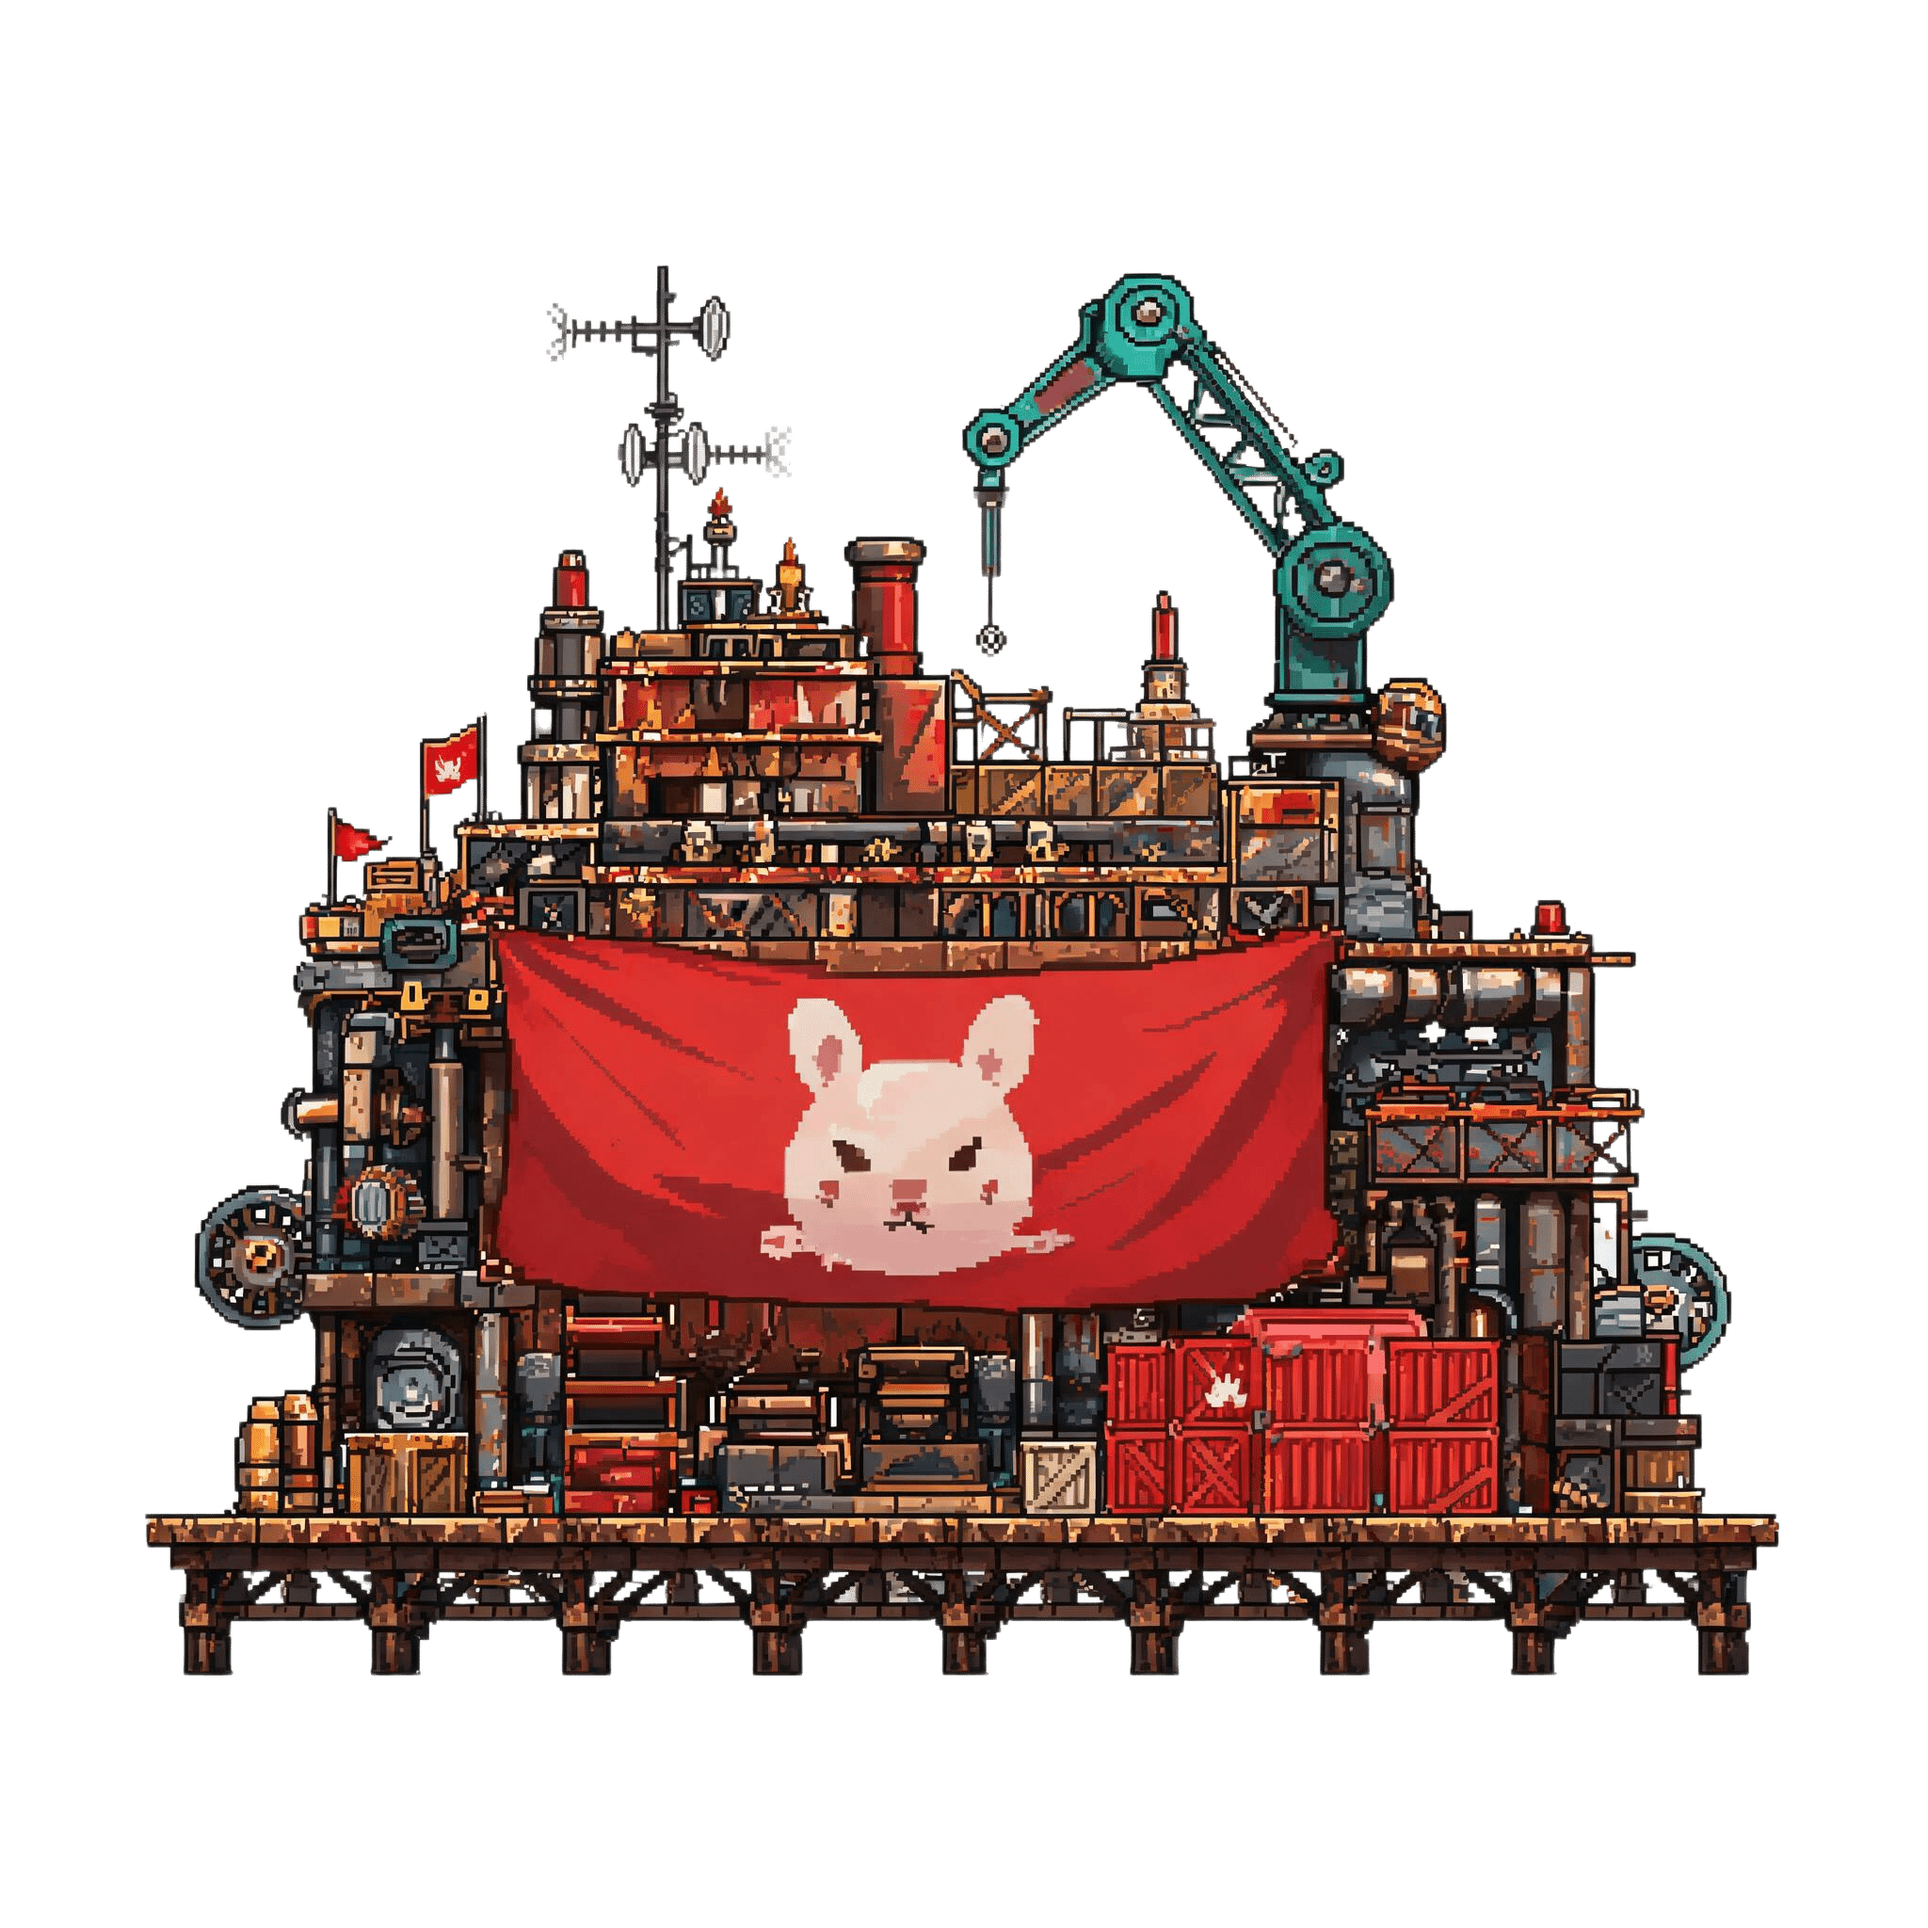
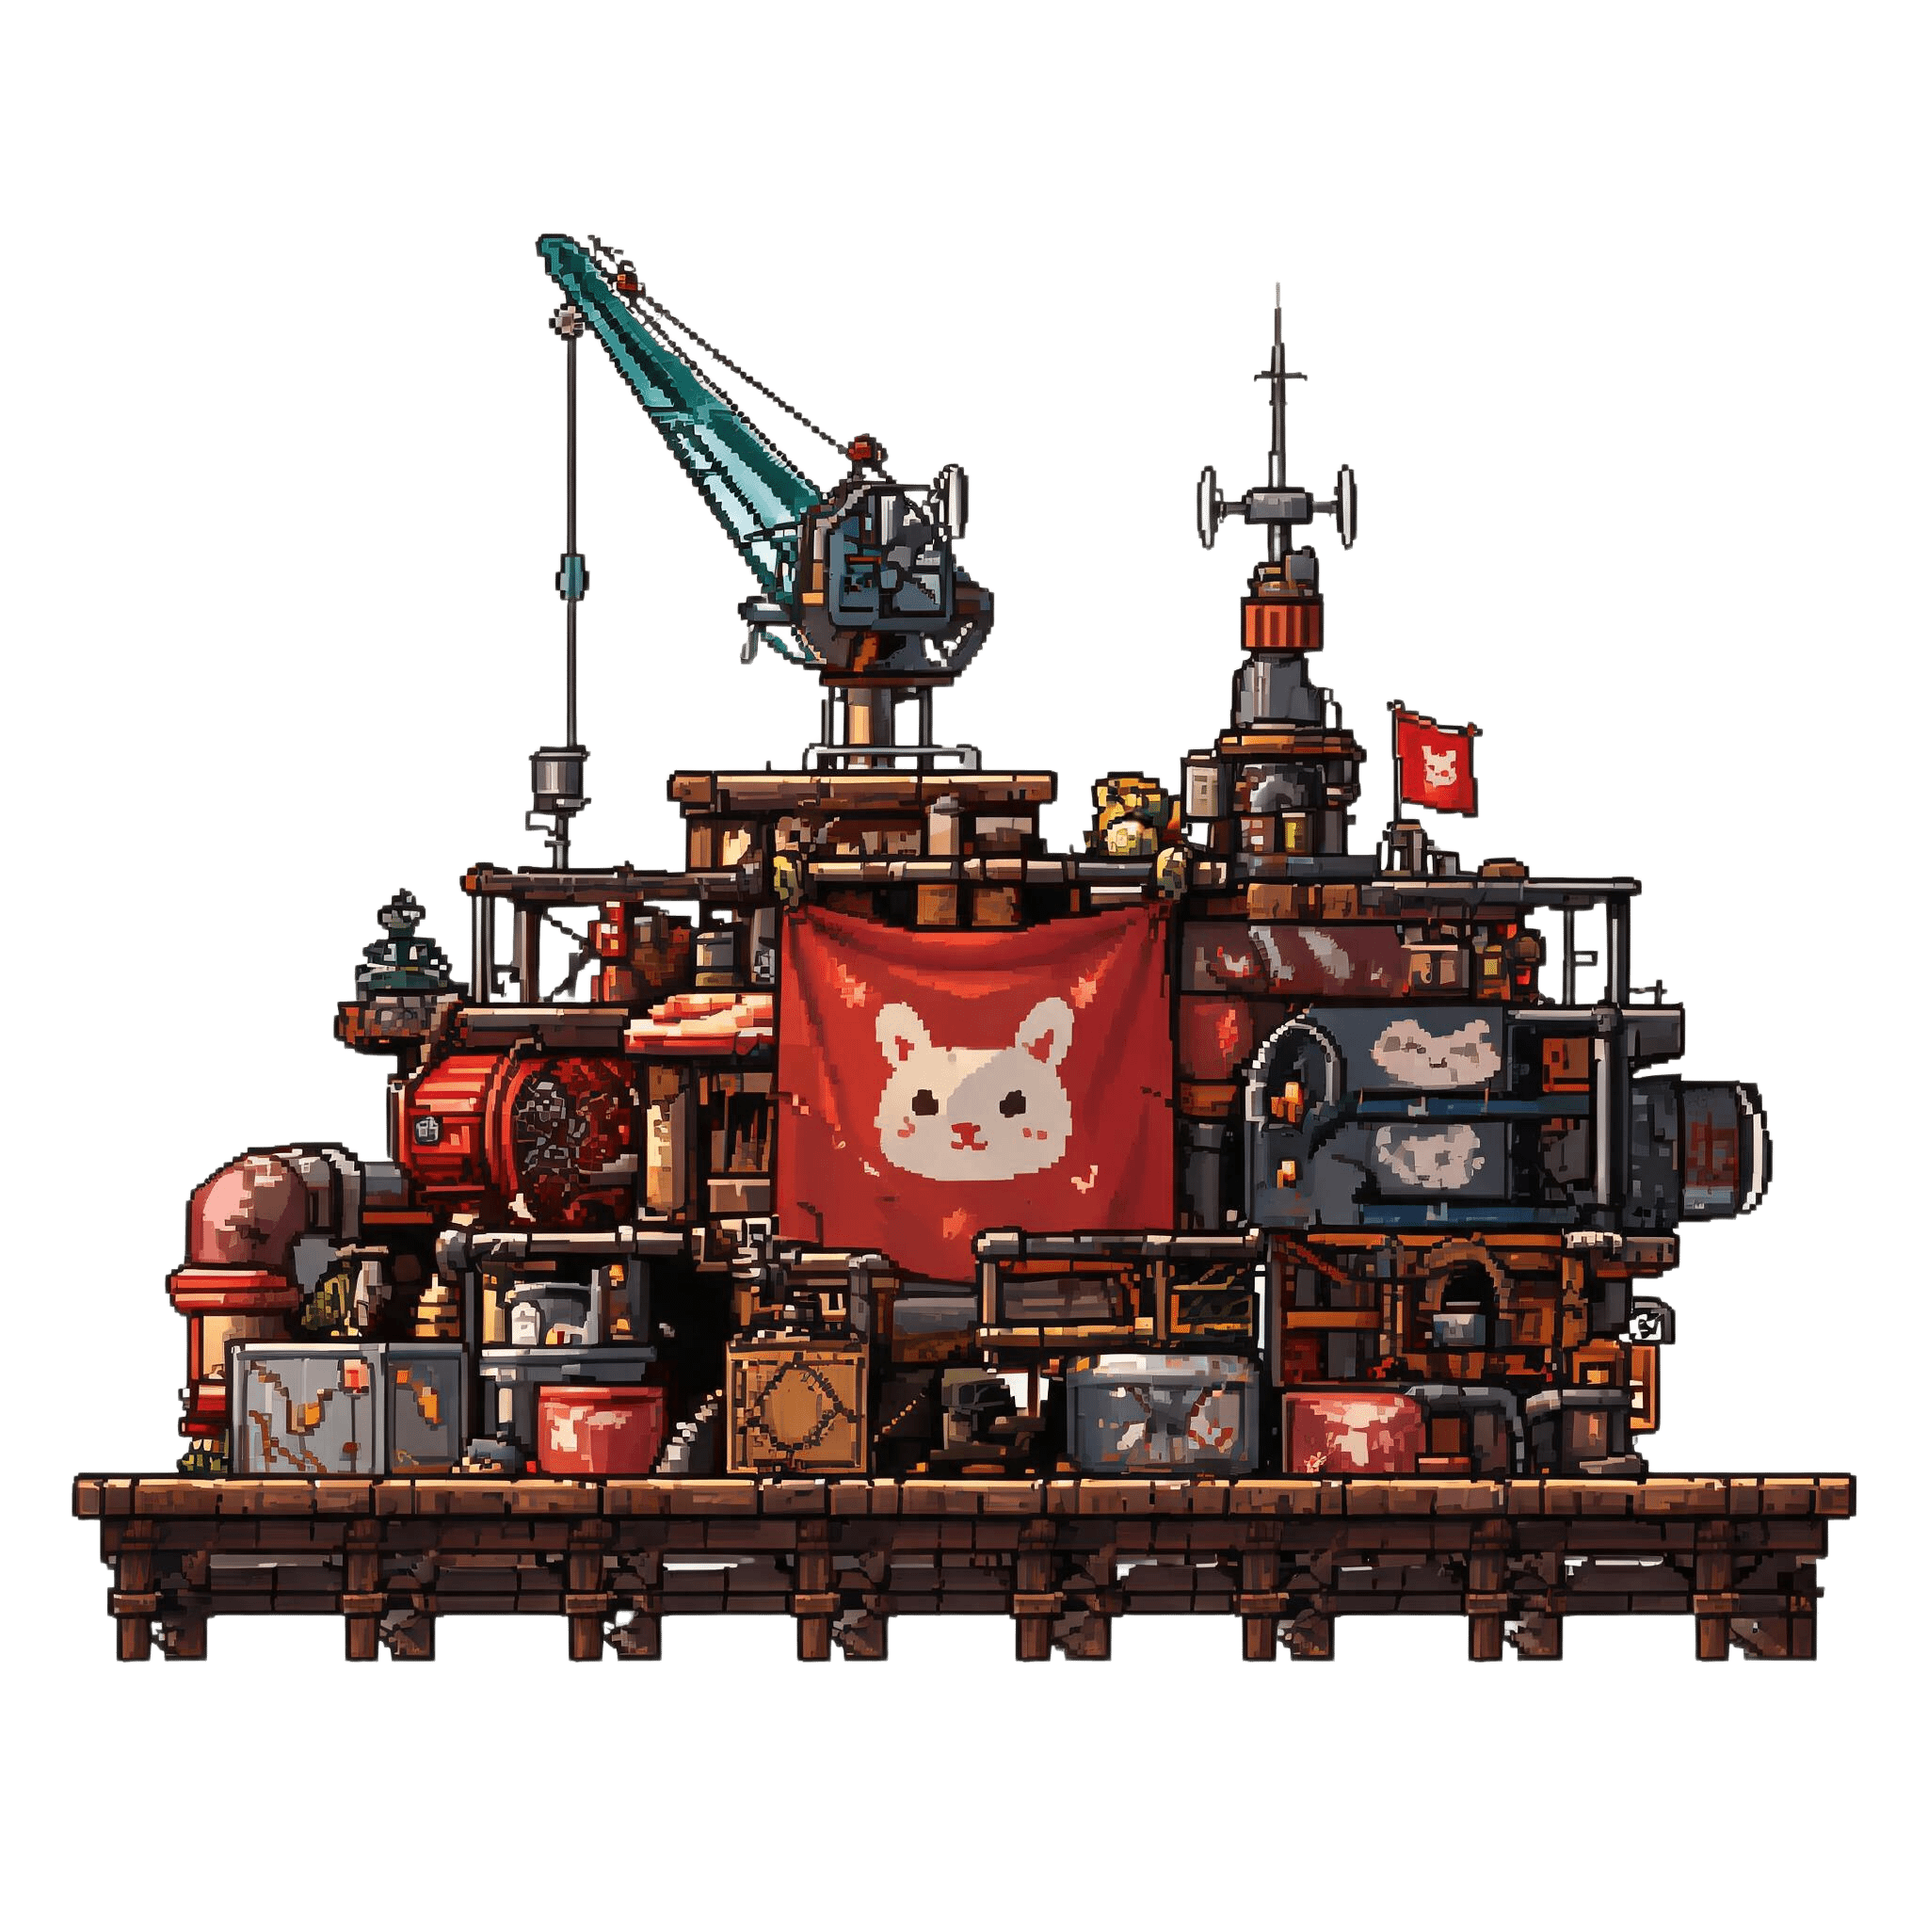
feat: Phase 17 art feedback round — menu cleanup, NineSlice→equal-ratio buttons, 0.90 base anchors, red base regen

diff --git a/src/game/ui/MenuButton.ts b/src/game/ui/MenuButton.ts
@@ -1,7 +1,7 @@
 import Phaser from 'phaser';
 import type { ViewportService } from '../platform/ViewportService';
 import type { InputRouter } from '../input/InputRouter';
-import { ART, BUTTON_SLICE } from '../config/ArtAssets';
+import { ART } from '../config/ArtAssets';
 
 /** 屏幕手感常量（CSS px，运行时 ×uiScale）；高度 64 ≥ 56 触控目标下限 */
 const DEFAULT_WIDTH = 320;
@@ -46,8 +46,10 @@ export class MenuButton {
   private readonly deps: MenuButtonDeps;
   private readonly container: Phaser.GameObjects.Container;
   private readonly bg: Phaser.GameObjects.Graphics;
-  /** 真机反馈轮：9-slice 生成底板（金/钢）；素材缺失或小件 = null 走 Graphics */
-  private readonly art: Phaser.GameObjects.NineSlice | null;
+  /** 真机反馈轮：生成底板图（金/钢）；素材缺失或小件 = null 走 Graphics。
+   *  注：试过 NineSlice —— Phaser 4 语义与预期不符（实测渲染 2.5 倍超标），
+   *  改用 Image 等比显示：素材自带上下透明边距，可见药丸反而更紧凑 */
+  private readonly art: Phaser.GameObjects.Image | null;
   private readonly label: Phaser.GameObjects.Text;
   private width: number;
   private height: number;
@@ -61,26 +63,10 @@ export class MenuButton {
 
     const baseWidth = deps.baseWidth ?? DEFAULT_WIDTH;
     const artKey = deps.accent === undefined ? ART.buttonGold : ART.buttonSteel;
-    let art: Phaser.GameObjects.NineSlice | null = null;
-    if (baseWidth >= ART_MIN_WIDTH && scene.textures.exists(artKey)) {
-      // 切片余量按源尺寸比例（生成尺寸不定：1024~4096 均可）
-      const src = scene.textures.get(artKey).getSourceImage();
-      const sliceX = Math.round(src.width * BUTTON_SLICE.x);
-      const sliceY = Math.round(src.height * BUTTON_SLICE.y);
-      art = scene.add.nineslice(
-        0,
-        0,
-        artKey,
-        undefined,
-        baseWidth,
-        DEFAULT_HEIGHT,
-        sliceX,
-        sliceX,
-        sliceY,
-        sliceY
-      );
-    }
-    this.art = art;
+    this.art =
+      baseWidth >= ART_MIN_WIDTH && scene.textures.exists(artKey)
+        ? scene.add.image(0, 0, artKey)
+        : null;
 
     this.bg = scene.add.graphics();
     this.label = scene.add
@@ -168,8 +154,8 @@ export class MenuButton {
     this.height = DEFAULT_HEIGHT * ui;
     this.label.setFontSize(FONT_SIZE * ui);
     if (this.art !== null) {
-      // 9-slice 底板：直接设显示尺寸（切片随源比例缩放）
-      this.art.setSize(this.width, this.height);
+      // 生成底板：等比铺满命中区（素材自带透明边距 → 可见药丸 ~70% 高）
+      this.art.setDisplaySize(this.width, this.height);
     }
     this.draw();
   }

diff --git a/src/game/ui/MenuArtwork.ts b/src/game/ui/MenuArtwork.ts
@@ -1,13 +1,15 @@
 import Phaser from 'phaser';
 import { ART } from '../config/ArtAssets';
 
-/** Decorative menu composition; it owns no input zones or gameplay state. */
+/**
+ * Decorative menu composition; it owns no input zones or gameplay state.
+ * 真机反馈轮：上下两条压暗 UI 框 + 副标题装饰已按用户反馈移除 ——
+ * 只保留海港背景与蓝红角色构图。
+ */
 export class MenuArtwork {
   private readonly background: Phaser.GameObjects.Image | null;
   private readonly blue: Phaser.GameObjects.Image | null;
   private readonly red: Phaser.GameObjects.Image | null;
-  private readonly frame: Phaser.GameObjects.Graphics;
-  private readonly subtitle: Phaser.GameObjects.Text;
 
   constructor(scene: Phaser.Scene) {
     const image = (key: string) => scene.textures.exists(key)
@@ -16,10 +18,6 @@ export class MenuArtwork {
     this.blue = image(ART.P1);
     this.red = image(ART.P2);
     this.red?.setFlipX(true);
-    this.frame = scene.add.graphics();
-    this.subtitle = scene.add.text(0, 0, 'HARBOR SKIRMISH  /  01', {
-      fontFamily: 'monospace', fontStyle: 'bold', color: '#ffe19a',
-    }).setOrigin(0.5);
   }
 
   layout(width: number, height: number, ui: number): void {
@@ -27,20 +25,11 @@ export class MenuArtwork {
       this.background.setPosition(width / 2, height / 2);
       this.background.setScale(Math.max(width / this.background.width, height / this.background.height));
     }
-    const short = height / ui < 540;
     for (const [i, sprite] of [this.blue, this.red].entries()) {
       if (!sprite) continue;
       const size = Math.min(height * 0.58, width * 0.3);
       sprite.setDisplaySize(size, size).setPosition(width * (i === 0 ? 0.18 : 0.82), height * 0.69);
       sprite.setVisible(width / ui >= 760);
     }
-    this.frame.clear();
-    this.frame.fillStyle(0x080d12, 0.66);
-    this.frame.fillRect(0, 0, width, short ? 76 * ui : 142 * ui);
-    this.frame.fillStyle(0x151c22, 0.88);
-    this.frame.fillRect(0, height - 102 * ui, width, 102 * ui);
-    this.frame.lineStyle(2 * ui, 0xc39a54, 0.9);
-    this.frame.lineBetween(0, height - 102 * ui, width, height - 102 * ui);
-    this.subtitle.setFontSize(12 * ui).setPosition(width / 2, short ? 68 * ui : 116 * ui);
   }
 }

diff --git a/src/game/systems/WorldBuilder.ts b/src/game/systems/WorldBuilder.ts
@@ -86,11 +86,11 @@ export class WorldBuilder {
       const flagX = left ? bounds.minX + 40 : bounds.maxX - 40;
       // 真机反馈轮（Phase 17）：concept01 §05 基地（底部平整甲板=走线，
       // 双方独立成体 —— 中间天然断开为开阔码头）；素材缺失回退塔楼+旗杆占位。
-      // 甲板锚点 per-side：蓝方甲板贴画布底（0.99 微沉被地面条覆盖）；
-      // 红方甲板下有支柱区（甲板线约在画布 88% 高）→ 0.86 略沉 —— 宁沉勿浮
-      //（浮起 = 甲板与走线间露缝穿帮；下沉被不透明地面 Graphics 遮盖）
+      // 甲板锚点 per-side —— 宁沉勿浮：素材甲板层实测不在画布底（蓝 ~92% 高），
+      // 锚点压到甲板层全部没入地面 Graphics 以下 → 木排末端切面不可见，
+      // 塔楼轮廓自然接地（浮起 = 甲板悬空 + 直切边穿帮）
       const baseKey = left ? ART.baseP1 : ART.baseP2;
-      const baseOriginY = left ? 0.99 : 0.86;
+      const baseOriginY = 0.9;
       if (this.scene.textures.exists(baseKey)) {
         this.scene.add.image(left ? 380 : width - 380, top, baseKey)
           .setDisplaySize(760, 760).setOrigin(0.5, baseOriginY).setDepth(-20);

diff --git a/src/game/config/ArtAssets.ts b/src/game/config/ArtAssets.ts
@@ -40,13 +40,6 @@ export const ART_FILES = [
   [ART.buttonSteel, 'button-steel.png'],
 ] as const;
 
-/**
- * 按钮 9-slice 切片余量（源尺寸比例）：胶囊边缘细节（外缘 + 高光 +
- * 角部铆钉）约占宽 15% / 高 25%（视觉实测，seedream 输出 4096×1024）——
- * 按比例切可兼容任意生成尺寸；中部纯平可拉伸。
- */
-export const BUTTON_SLICE = { x: 0.15, y: 0.25 } as const;
-
 /** Opaque top and sole positions measured from the generated 1254px sprites. */
 export const PLAYER_ART_BOUNDS = {
   P1: { top: 136, bottom: 1229, sourceHeight: 1254 },

diff --git a/TASKS.md b/TASKS.md
@@ -1,7 +1,7 @@
 # Ricochet Rivals — Development Tasks
 
-> 状态：**Phase 0 ～ Phase 16 已完成（2026-09-29，Phase 16 Online Rematch 落地；test-reviewer 验收 PASS WITH ISSUES → Medium×2 已修复复验）；Phase 17 进行中：首屏美术样片 + 用户反馈 4 项修复轮 + 7 音效 Juice 轮完成（含 desync 恢复遗留相机滞留的产品级 bug 修复），hit stop / 粒子 / 角色反应 / UI transitions 待续。**
-> 当前验证：`npm run typecheck` / `npm run test`（487）/ `npm run build` 已通过；修复 + 音效轮后 `npm run e2e` 全量 **130 passed / 0 failed**（desync 恢复清炮弹修复后；恢复前同点连续三次 123/124）。
+> 状态：**Phase 0 ～ Phase 16 已完成（2026-09-29，Phase 16 Online Rematch 落地；test-reviewer 验收 PASS WITH ISSUES → Medium×2 已修复复验）；Phase 17 进行中：首屏美术样片 + 用户反馈 4 项修复轮 + 7 音效 Juice 轮 + 美术批次轮（基地/HP HUD/菜单/触控）+ 真机反馈修复各轮完成（含 desync 恢复遗留相机滞留的产品级 bug 修复），hit stop / 粒子 / 角色反应 / UI transitions 待续。**
+> 当前验证：`npm run typecheck` / `npm run test`（487）/ `npm run build` 已通过；美术批次 + 反馈修复轮后 `npm run e2e` 全量 **130 passed / 0 failed** 复验全绿（desync 恢复清炮弹修复前曾同点连续三次 123/124）。
 > 规则：每完成一个 Phase → 更新本文件 → 跑三项验证 → 停止，等待下一 Phase。
 
 ---
@@ -1896,8 +1896,9 @@ Low×3。核心契约（重置、连接复用、Host authority、对称 ready、
   重发成功）；requestAim 守卫全过后播（no-op 不响）
 - [x] 视觉抽查脚本扩至 7 帧（+Online icon 手机帧、+弹道末段红方基地
   对齐帧）；资产台账更新见 `docs/ArtDesign/FIRST_LOOK_ASSETS.md`
-- [ ] 全量 E2E 回归（改 WorldBuilder/MenuButton/PlayerHud/
-      TouchControls 共享组件，跑中）
+- [x] 全量 E2E 回归（改 WorldBuilder/MenuButton/PlayerHud/
+      TouchControls 共享组件）：含反馈修复轮后终验复跑
+      **130 passed / 0 failed** 全绿
 
 ### 真机试玩反馈轮（2026-09-29，Mac ↔ iPhone 联机实测）
 
@@ -1949,6 +1950,24 @@ Low×3。核心契约（重置、连接复用、Host authority、对称 ready、
 这里重点优化：
 
 “命中爽感”。
+
+### 美术反馈修复轮（2026-09-29，第二批真机反馈）
+
+- [x] **菜单上下压暗条移除**：上压暗框 + 副标题装饰（"HARBOR
+      SKIRMISH / 01"）+ 底部深色条全部移除 —— MenuArtwork 只保留
+      海港背景与蓝红角色构图
+- [x] **按钮底板弃 NineSlice 改 Image 等比**：NineSlice 真机实测
+      渲染 2.5 倍超标（~150px 高、压住输入框）；改 setDisplaySize
+      等比铺满命中区（素材自带透明边距，可见药丸 ~50px 紧凑）；
+      BUTTON_SLICE 常量与切片接线删除（ArtAssets / MenuButton）
+- [x] **蓝基地甲板硬切修复**：素材甲板层实测在图高 ~92% 而非贴底，
+      per-side 锚点（蓝 0.99 / 红 0.86）下蓝方甲板浮起 → 底边直切
+      穿帮；锚点统一沉 **0.90** —— 甲板没入不透明地面条被遮盖
+      （宁沉勿浮：下沉瑕疵被地面遮挡，浮起露缝必穿帮）
+- [x] **红基地重生成**：杂物去红化 —— 只留兔子头横幅 + 旗，
+      消除杂物群红色噪音（base-red.png 重生成替换）
+- [x] 验证：typecheck / test（487）/ build 全绿 + E2E 全量复跑
+      **130 passed / 0 failed**
 
 ---
 
